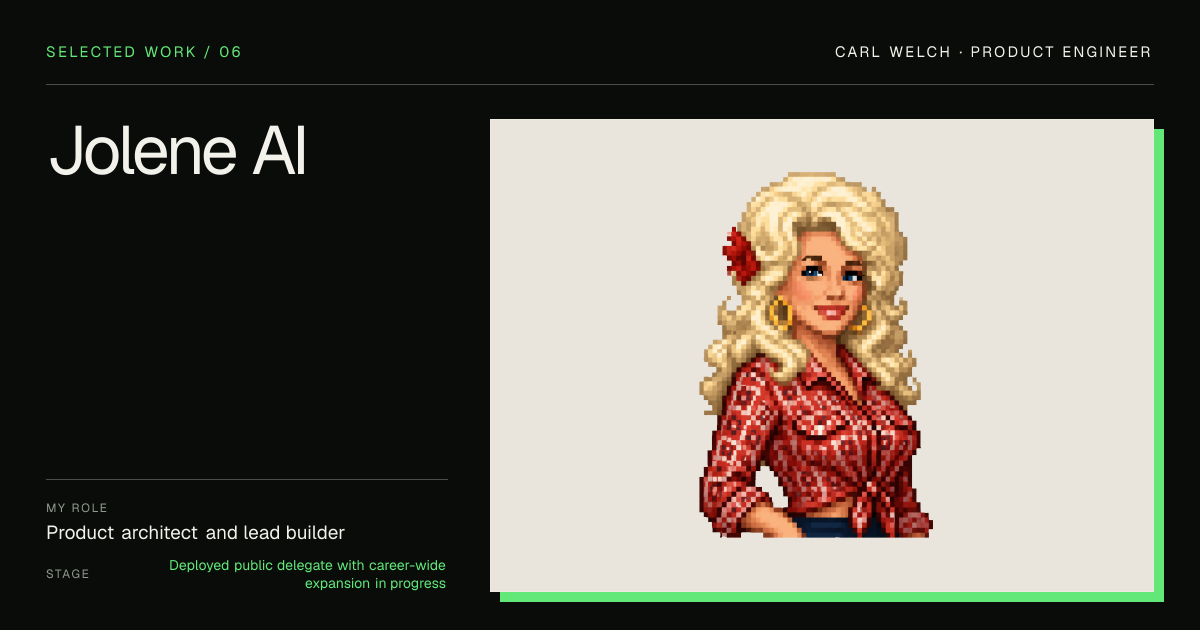
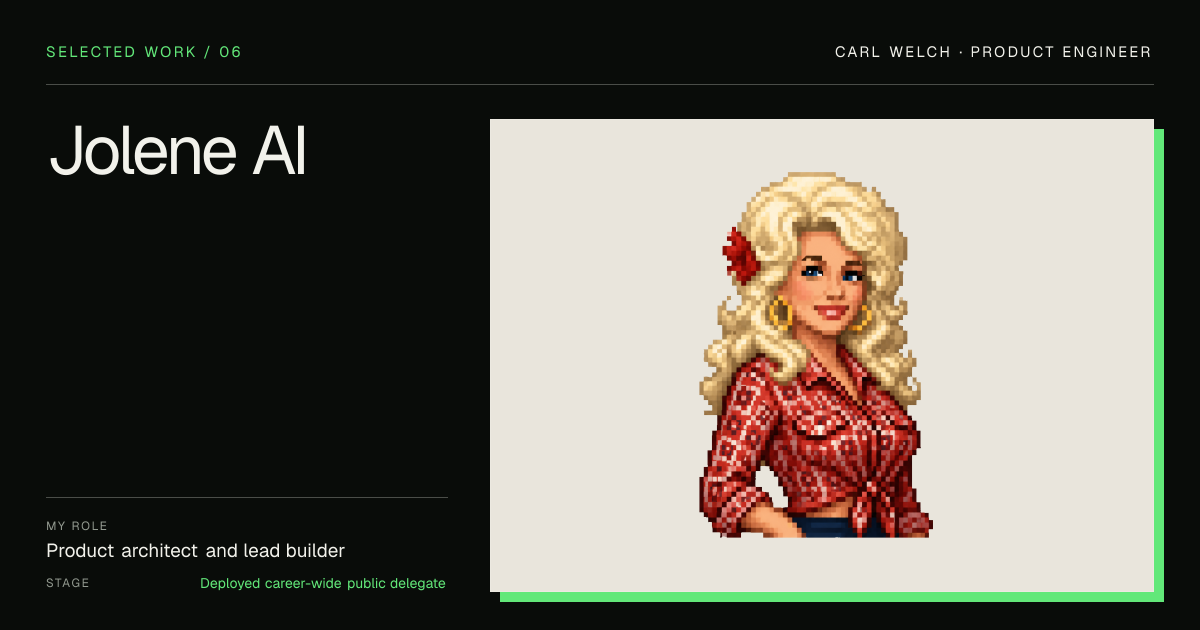
Mark career-wide Jolene live (#88)
* Mark career-wide Jolene live

* Retry stalled portfolio CI

* Harden portfolio container quality gate

* Install browser for portfolio quality checks

Changed region(s): [[0.0308, 0.7841, 0.37, 0.9349]]

diff --git a/site/app/portfolio-data.ts b/site/app/portfolio-data.ts
@@ -801,11 +801,11 @@ export const projects: PortfolioProject[] = [
     slug: 'jolene-ai',
     name: 'Jolene AI',
     category: 'AI agents / Knowledge systems',
-    status: 'Deployed public delegate with career-wide expansion in progress',
+    status: 'Deployed career-wide public delegate',
     tone: 'green',
     number: '06',
     summary:
-      'A governed AI system that combines reviewed evidence, bounded conversation continuity, tested model and deterministic responses, explicit action boundaries, and a warm, recognizable personality. Current work is expanding the public delegate across my full 20-plus-year career.',
+      'A governed AI system that combines reviewed evidence, bounded conversation continuity, tested model and deterministic responses, explicit action boundaries, and a warm, recognizable personality across my full 20-plus-year career.',
     role: 'Product architect and lead builder',
     scope: 'Product direction, agent architecture, evidence design, character and behavior direction, implementation, evaluation, and release governance',
     image: {
@@ -925,7 +925,7 @@ export const projects: PortfolioProject[] = [
         { id: 'bff', label: 'Same-origin BFF', detail: 'Bounded schemas and server-only token', technology: 'Next.js · TypeScript', kind: 'service', x: 525, y: 105, width: 180 },
         { id: 'delegate', label: 'Public Jolene API', detail: 'Answer, job-fit, policy refusal', technology: 'Vercel · TypeScript', kind: 'ai', x: 325, y: 255, width: 180 },
         { id: 'retrieval', label: 'Career-wide retrieval', detail: 'Employer, agency, leadership, products', technology: 'Lexical · semantic rank', kind: 'service', x: 525, y: 255, width: 180 },
-        { id: 'corpus', label: 'Reviewed career artifact', detail: 'Five chapters, 16 roles, 92 records in review', technology: 'Versioned · hash verified', kind: 'data', x: 325, y: 430, width: 180 },
+        { id: 'corpus', label: 'Reviewed career artifact', detail: 'Five chapters, 16 roles, 92 published records', technology: 'Versioned · hash verified', kind: 'data', x: 325, y: 430, width: 180 },
         { id: 'continuity', label: 'Bounded continuity', detail: 'Public context only, short lived, resettable', technology: 'Typed conversationContext', kind: 'control', x: 525, y: 430, width: 180 },
         { id: 'composer', label: 'Grounded composer', detail: 'Model or deterministic answer, then validate', technology: 'OpenAI · structured output', kind: 'ai', x: 775, y: 105, width: 180 },
         { id: 'evaluation', label: 'Launch evaluation', detail: '132 cases, 192 turns, red team', technology: 'Playwright · eval runner', kind: 'control', x: 775, y: 270, width: 180 },
@@ -968,7 +968,7 @@ export const projects: PortfolioProject[] = [
       },
       {
         id: 'portfolio:claim:jolene-ai:corpus', sourceIds: ['portfolio:source:project:jolene-ai'],
-        text: 'Exports public career knowledge as a versioned, hash-verified, deny-by-default artifact with review timestamps and revocation continuity. Active expansion work covers five career chapters and 16 detailed roles in a 92-record reviewed candidate artifact without exposing private evidence or raw Obsidian content.',
+        text: 'Exports public career knowledge as a versioned, hash-verified, deny-by-default artifact with review timestamps and revocation continuity. The deployed corpus covers five career chapters and 16 detailed roles in a 92-record reviewed artifact without exposing private evidence or raw Obsidian content.',
         strength: 'moderate', maturity: 'deployed_demo', limitations: ['Public answers are limited to the currently published artifact.'], reviewState: 'approved', publicApproved: true,
       },
       {
@@ -998,7 +998,7 @@ export const projects: PortfolioProject[] = [
       },
       {
         id: 'portfolio:claim:jolene-ai:deployment', sourceIds: ['portfolio:source:project:jolene-ai'],
-        text: 'Separates build, evaluation, preview, production promotion, corpus pinning, and rollback proof into distinct release gates. The active career-wide launch suite contains 132 cases and 192 turns, with production browser and telemetry verification still required for each release.',
+        text: 'Separates build, evaluation, preview, production promotion, corpus pinning, and rollback proof into distinct release gates. The career-wide launch suite contains 132 cases and 192 turns, and the current release passed production browser and answer-mode telemetry verification.',
         strength: 'moderate', maturity: 'deployed_demo', limitations: ['Future releases still require their own checks and explicit promotion.'], reviewState: 'approved', publicApproved: true,
       },
       {
@@ -1019,7 +1019,7 @@ export const projects: PortfolioProject[] = [
     ],
     boundaries: [
       'Public Jolene can use only the reviewed public artifact. It cannot read Carl’s private Obsidian vault, memory, Slack, SQLite database, or MCP tools.',
-      'The 92-record career-wide artifact and its broader delivery routing are active release work. The deployed delegate remains pinned to the last separately verified production corpus until that work passes its full gates.',
+      'The deployed delegate is pinned to the versioned 92-record career-wide artifact. Future corpus or answer changes still require their own evaluation, browser, telemetry, promotion, and rollback gates.',
       'Audio voice remains future work, and external messages or other consequential actions remain disabled or subject to separate human authorization.',
       'The public chat is a deployed portfolio demonstration. The broader chief-of-staff runtime remains a private local system for Carl.',
     ],

diff --git a/site/tests/browser/public-portfolio.spec.ts b/site/tests/browser/public-portfolio.spec.ts
@@ -669,7 +669,7 @@ test('Jolene case study presents distinct character sheets, the build retrospect
   const architecture = page.locator('#architecture');
   const architectureMap = architecture.locator('.architecture-map').last();
   await expect(architectureMap.locator('[data-architecture-node="corpus"]')).toContainText('Reviewed career artifact');
-  await expect(architectureMap.locator('[data-architecture-node="corpus"]')).toContainText('Five chapters, 16 roles, 92 records in review');
+  await expect(architectureMap.locator('[data-architecture-node="corpus"]')).toContainText('Five chapters, 16 roles, 92 published records');
   await expect(architectureMap.locator('[data-architecture-node="evaluation"]')).toContainText('132 cases, 192 turns, red team');
 
   const overflow = await page.evaluate(() => document.documentElement.scrollWidth - window.innerWidth);
